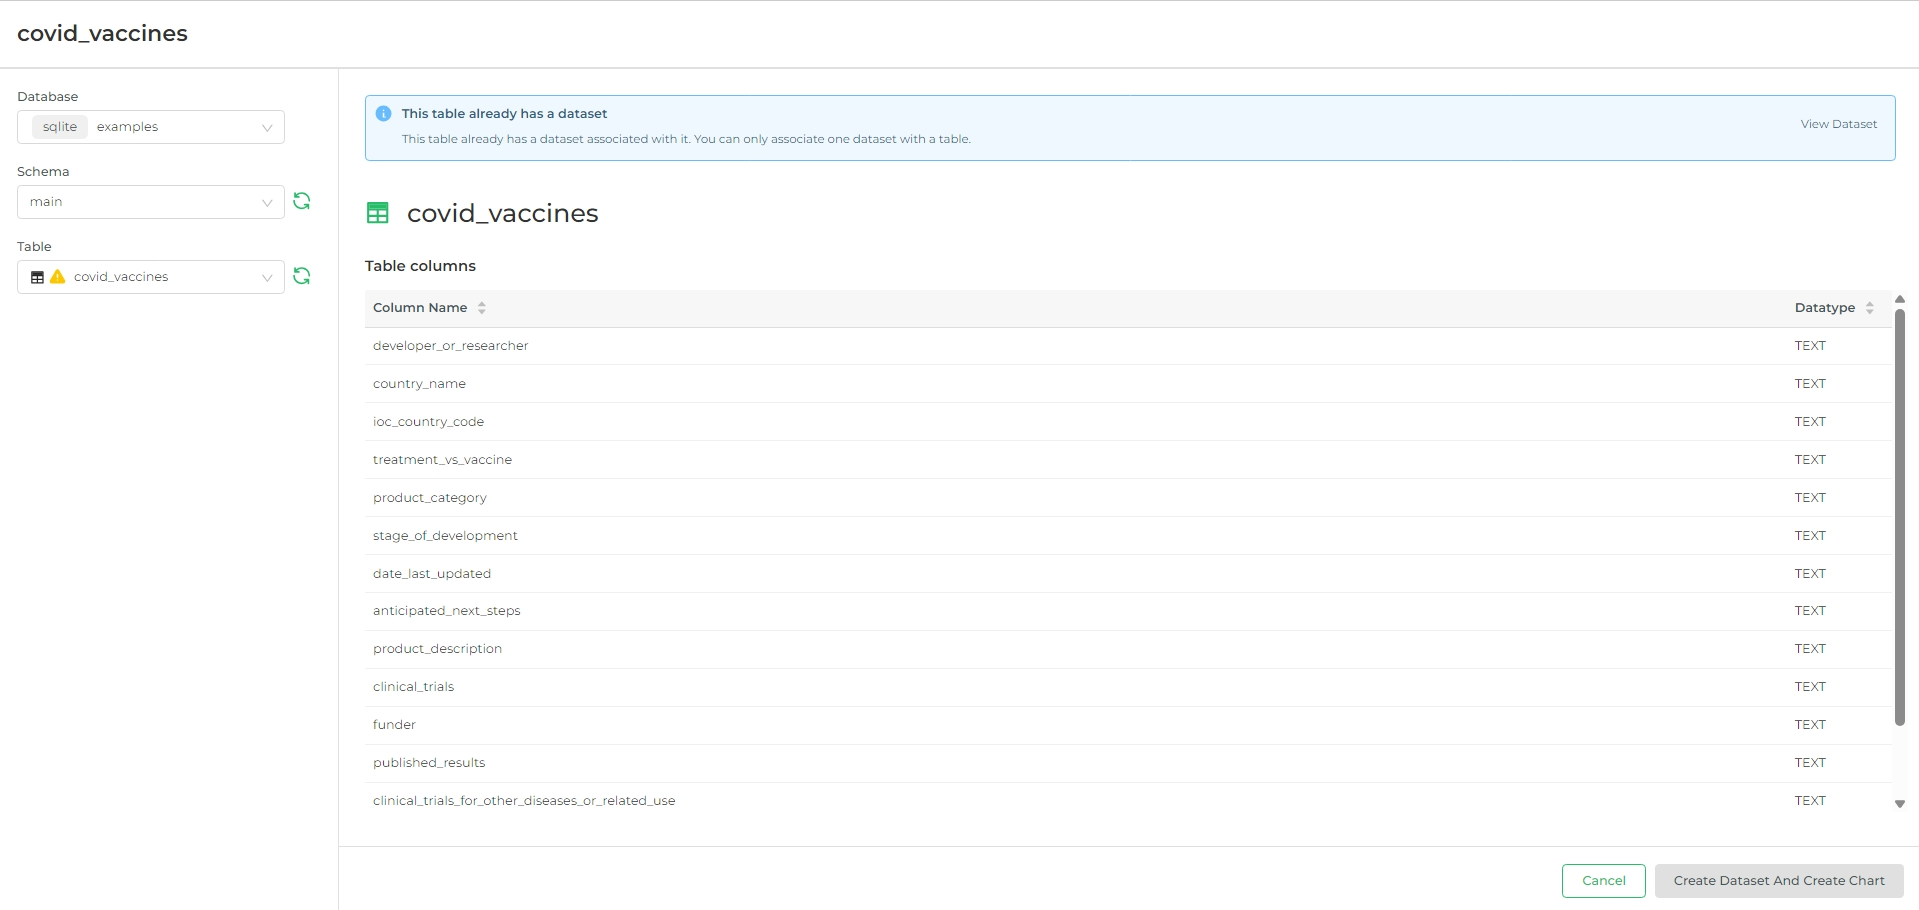
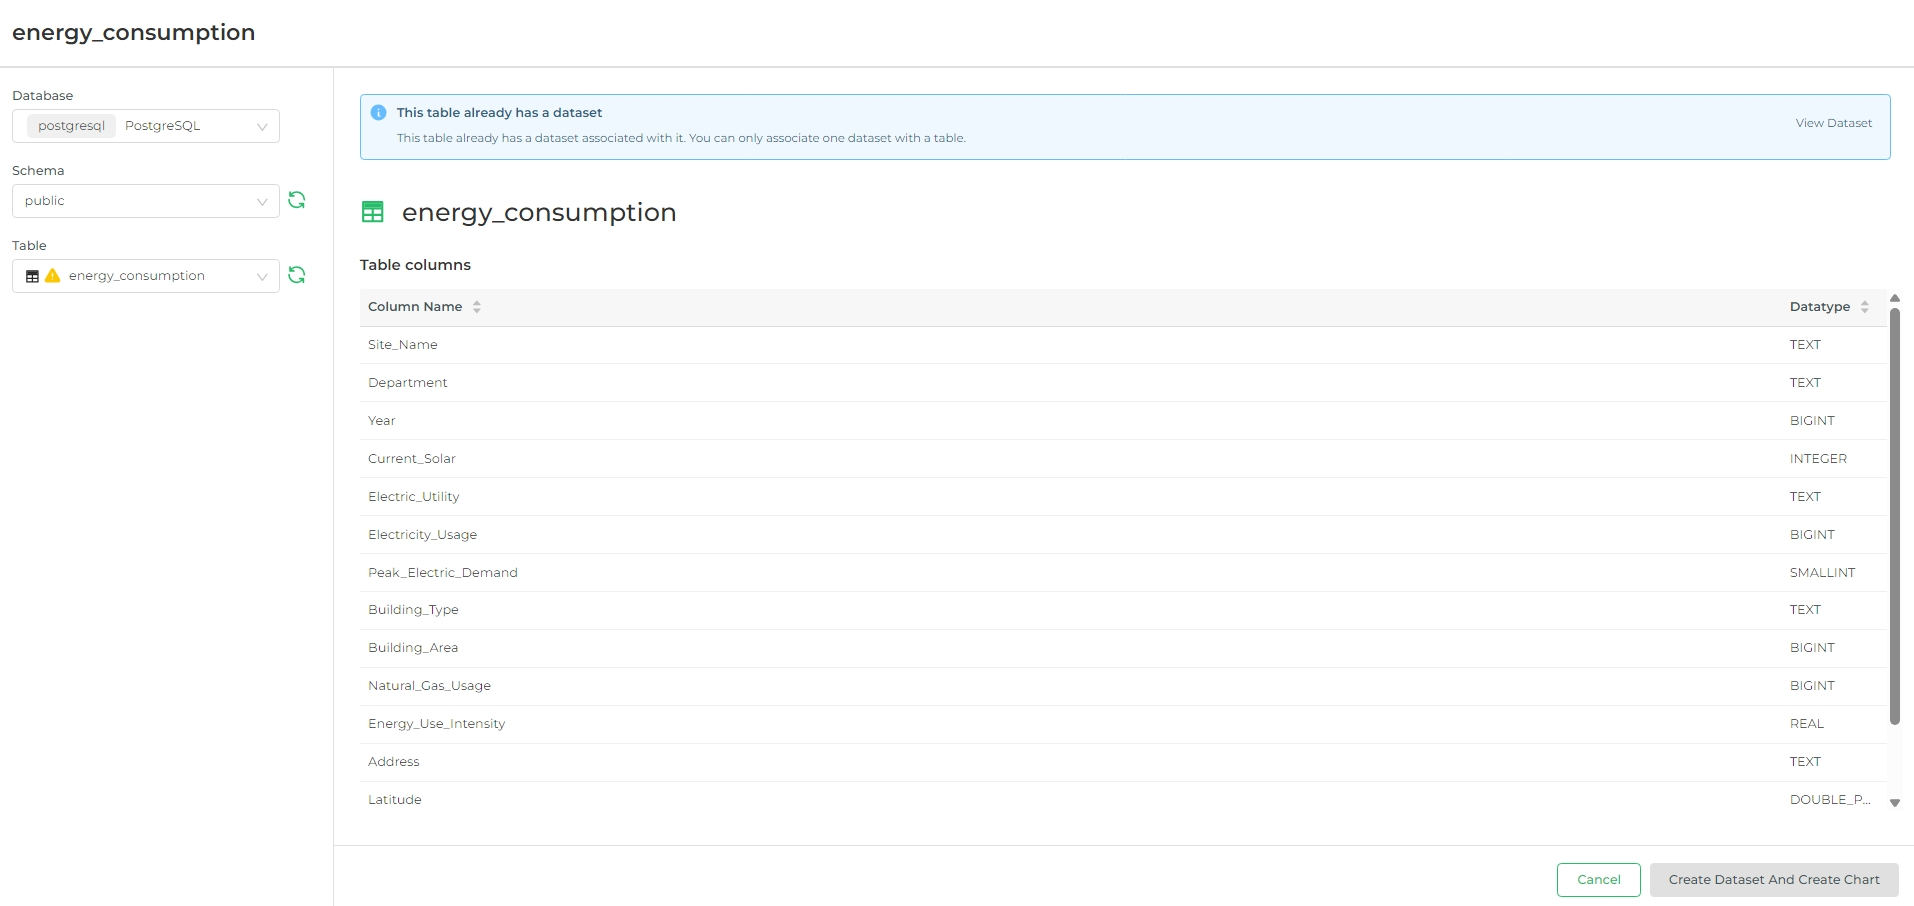
dashboard updates

diff --git a/docs/dashboard-dronahq/working-with-data/exploring-datas.md b/docs/dashboard-dronahq/working-with-data/exploring-datas.md
@@ -10,36 +10,43 @@ import Image from '@site/src/components/Image';
 import Thumbnail from '@site/src/components/Thumbnail';
 
 
-In this tutorial, we will explore what can be done with data in DronaHQ dashboards. We will cover every aspect, from loading data to building visualizations on the dataset. We will introduce key concepts in DronaHQ Dashboard by exploring a comprehensive dataset containing COVID-19 vaccination data from around the world. This tutorial aims to familiarize you with the process of creating and analyzing data, building informative dashboards, and utilizing various visualization tools offered by DronaHQ.
+In this tutorial, we will explore what can be done with data in DronaHQ dashboards. We will cover every aspect, from loading data to building visualizations on the dataset. We will introduce key concepts in DronaHQ Dashboard by exploring a comprehensive dataset containing different Energy usage data from various buildings and their respective departments. This tutorial aims to familiarize you with the process of creating and analyzing data, building informative dashboards, and utilizing various visualization tools offered by DronaHQ.
 
-The dataset we will use includes detailed information about COVID-19 vaccine development and distribution on a global
-scale. Specifically, the dataset provides insights into the following areas:
 
-- Details of FDA-approved indications.
-- Codes representing different countries.
-- Information about clinical trials for diseases other than COVID-19.
-- Names of countries involved in the dataset.
-- Detailed information about clinical trials.
+
+The dataset we will use offers valuable insights into energy usage patterns and building characteristics across various sites. Specifically, the dataset provides insights into the following areas:
+
+
+<figure>
+  <Thumbnail src="/img/dhq-dashboard/using-dashboard/exploring-data/overview.jpg" alt="Complete Dashbaord" />
+</figure>
+
+- Analysis of electricity and natural gas usage across different sites, helping identify energy consumption trends.
+- Insights into the maximum energy demand periods, crucial for planning and managing energy resources.
+- A measure of energy efficiency that can be used to benchmark performance and identify high-energy-use sites for improvement.
+- Understanding of the distribution of electric utility providers across sites, which can influence energy sourcing strategies.
+- Data on the total use of solar energy across various sites, revealing the extent of renewable energy integration.
+- Analysis of how building types and sizes relate to energy usage, supporting more targeted energy efficiency measures.
 
 ## Creating and Managing Datasets
 
 The first step in building our dashboard is to create and manage datasets. To do this, navigate to the dashboards
 section, click the `+ Dataset` button. 
-This will allow you to import and organize the COVID-19 vaccination data. Once the data is available as a dataset, you can easily apply various analyses and create
+This will allow you to import and organize the Energy consumption data. Once the data is available as a dataset, you can easily apply various analyses and create
 feature-rich charts. After saving the dataset, all relevant metrics will be fetched and ready for use in different categorized tables and charts.
 
 <figure>
-  <Thumbnail src="/img/dhq-dashboard/using-dashboard/exploring-data/dataset.jpeg" alt="Creating dataset for covid data" />
-  <figcaption align="center"><i>Creating dataset for covid data</i></figcaption>
+  <Thumbnail src="/img/dhq-dashboard/using-dashboard/exploring-data/dataset.jpeg" alt="Creating dataset for energy consumption data" />
+  <figcaption align="center"><i>Creating dataset for energy consumption data</i></figcaption>
 </figure>
 
 ### Availing Data
 
-To create a dataset, you must first connect a database using a connector. Follow the steps to configure a connector for your database. Additionally, there are other methods to avail data:
+To create a dataset, you must first connect a database using a connector. Follow the [steps to configure a connector](/dashboard-dronahq/working-with-data/connecting-databases/) for your database. Additionally, there are other methods to avail data:
 
-- Uploading CSV: You can upload a CSV file directly. Simply provide a table name and select the appropriate schema to structure the data.
-- Columnar to Database Configuration: This method involves configuring a columnar data format to fit into your database schema, optimizing for storage and query performance.
-- Excel to Database Configuration: Similar to CSV upload, this method allows you to upload Excel files. You will need to specify the table name and schema to ensure the data is correctly integrated into your database.
+- [Uploading CSV](/dashboard-dronahq/working-with-data/upload-csv/#upload-csv): You can upload a CSV file directly. Simply provide a table name and select the appropriate schema to structure the data.
+- [Columnar to Database Configuration](/dashboard-dronahq/working-with-data/upload-csv/#upload-columnar-file): This method involves configuring a columnar data format to fit into your database schema, optimizing for storage and query performance.
+- [Excel to Database Configuration](/dashboard-dronahq/working-with-data/upload-csv/#upload-excel-file): Similar to CSV upload, this method allows you to upload Excel files. You will need to specify the table name and schema to ensure the data is correctly integrated into your database.
 
 ## Building the Dashboard
 
@@ -91,37 +98,26 @@ Follow these steps to use elements:
 
 ### Pie Chart
 
-To visualize vaccine candidates per phase, start by creating a pie chart using the `covid_vaccine` dataset. Begin by selecting the Pie Chart option in the chart creation section. In the Query section, you can define dimensions by choosing from saved dimensions, simple dimensions, or by writing custom SQL queries. For metrics, count the clinical stages to represent the data accurately.
+To visualize peak Electricity Demand by Building Type, start by creating a pie chart using the `energy_consumption` dataset. Begin by selecting the Pie Chart option in the chart creation section. In the Query section, you can define dimensions by choosing from saved dimensions, simple dimensions, or by writing custom SQL queries. For metrics, summation of the peak electric demand is requoired to represent the data accurately.
 
 Now put these into as fields
 
 Here's the table based on the new query:
 
-Dimension : Custom SQL 
-
-```sql
-    CASE 
-    WHEN stage_of_development = 'Pre-clinical' THEN '0. Pre-clinical'
-    WHEN stage_of_development = 'Phase I' THEN '1. Phase I' 
-    WHEN stage_of_development = 'Phase I/II' or stage_of_development = 'Phase II' THEN '2. Phase II or Combined I/II'
-    WHEN stage_of_development = 'Phase III' THEN '3. Phase III'
-    WHEN stage_of_development = 'Authorized' THEN '4. Authorized'
-    END
-```
 
 | Column                | Value                  |
 |-----------------------|------------------------|
-| DIMENSIONS            | Custom SQL            |
-| METRIC                | COUNT(clinic_stage)                  |
+| DIMENSIONS            | Building_Type           |
+| METRIC                | SUM(Peak_Electric_Demand)                  |
 | SORT BY METRIC        | Toggle On           |
 
 In the Customize section, you can configure various options to enhance your chart. Adjust the color scheme, set the percentage threshold, and decide whether to show the legend. 
 
-Finally, you can modify the pie shape by adjusting the outer radius or converting it into a donut chart by setting the inner radius. These customizations will help you create a visually appealing and informative pie chart that clearly illustrates the distribution of vaccine candidates across different phases.
+Finally, you can modify the pie shape by adjusting the outer radius or converting it into a donut chart by setting the inner radius. These customizations will help you create a visually appealing and informative pie chart that clearly illustrates the distribution of electric demand across different buildings.
 
 <div style={{ position: 'relative', paddingBottom: 'calc(46.33333333333333% + 41px)', height: 0 }}> 
     <iframe 
-        src="https://demo.arcade.software/rERFn9UEPWtwvuZDjUgY?embed" 
+        src="https://demo.arcade.software/RllNuCNN9c2Hd2ao0bYS?embed" 
         title="Theme Creation" 
         frameborder="0" 
         loading="lazy" 
@@ -135,17 +131,22 @@ Finally, you can modify the pie shape by adjusting the outer radius or convertin
 
 Click `Create Chart`. Then click `Add to dashboard`. This chart will be added top dashboard. We are going to repeat this for every chart or table we create.
 
-### World Map Chart
+### Tree Map
 
-Let's create a World Map chart to visualize vaccine distribution across countries using the `covid_vaccine` dataset. Begin by selecting the World Map chart option in the chart creation section. In the Query section, specify the `country_name` column as the Country Column and set the Country Field Type to Full name. For the metric, use `COUNT(*)` to count the number of vaccine candidates per country.
+Let's create a Treemap chart to visualize the distribution of building areas across different departments using the `public.energy_consumption` dataset. Start by selecting the Treemap chart option in the chart creation section. 
 
-In the Customize section, you can configure various options to enhance your chart. Enable the Show Bubbles option to display bubbles on the map, and set the Bubble Size based on the `COUNT(country_name)` metric. You can also adjust the color scheme and other visual settings to improve the chart's appearance.
 
-Hit `Create Chart` and, you'll create a World Map chart that clearly illustrates the distribution of vaccine candidates across different countries. This chart will provide a visual overview, making it easier to identify regions with significant vaccine development activity.
+- Dimensions: Set the `Department` column as the primary dimension and `Building_Type` as the secondary dimension to categorize the data.
+- Metric: Use `SUM(Building_Area)` to aggregate the total area for each building type under the respective department.
+- Filters: Apply a filter where `Building_Area` is not equal to 0 to ensure only valid building areas are included in the chart.
+
+In the Customize section, you can adjust the color scheme and other visual settings to enhance the chart's appearance.
+
+Click on `Create Chart`, and you'll generate a Treemap chart that clearly depicts the distribution of building areas across various departments and building types. This visual representation allows you to easily compare the sizes and distribution of different building types within each department.
 
 <figure>
-  <Thumbnail src="/img/dhq-dashboard/using-dashboard/exploring-data/worldmap.jpeg" alt="World Map setup" />
-  <figcaption align="center"><i>World Map setup</i></figcaption>
+  <Thumbnail src="/img/dhq-dashboard/using-dashboard/exploring-data/treemap.jpeg" alt="Tree Map setup" />
+  <figcaption align="center"><i>Tree Map setup</i></figcaption>
 </figure>
 
 

diff --git a/docs/dashboard-dronahq/working-with-data/datasets.md b/docs/dashboard-dronahq/working-with-data/datasets.md
@@ -234,6 +234,10 @@ Select the expansion arrow on the left side of the column row to define addition
 
 The Sync Columns from Source button fetches updated metadata from the dataset source, reflecting changes to the columns.
 
+  <figure>
+    <Thumbnail src="/img/dhq-dashboard/working-with-data/dataset/column-sync.jpeg" alt="explore" />
+  </figure>
+
 ### Calculated Columns
 
 Calculated columns refine raw data into a more meaningful format for end-users. They are created using SQL expressions
